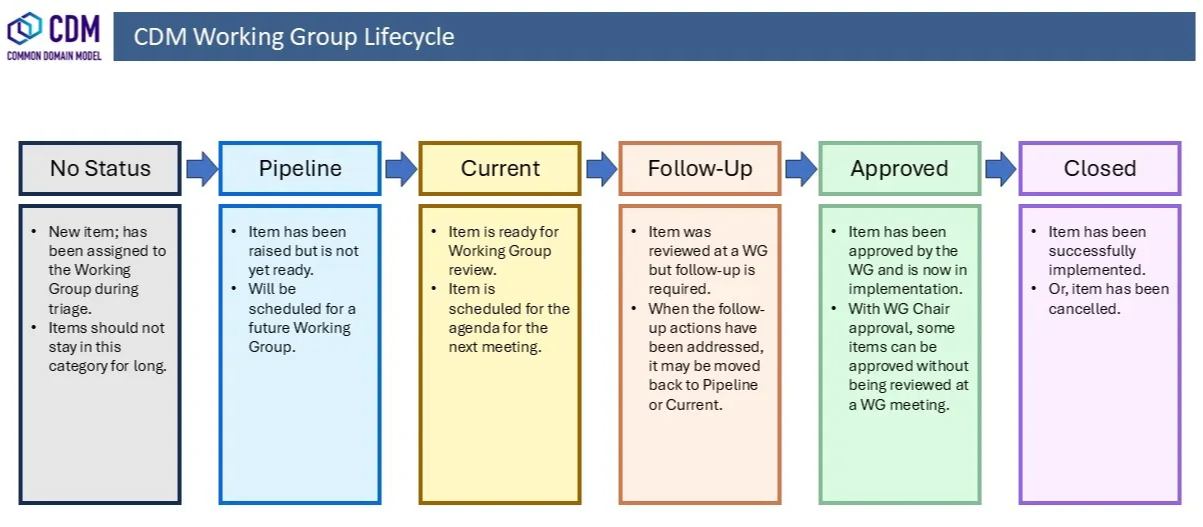
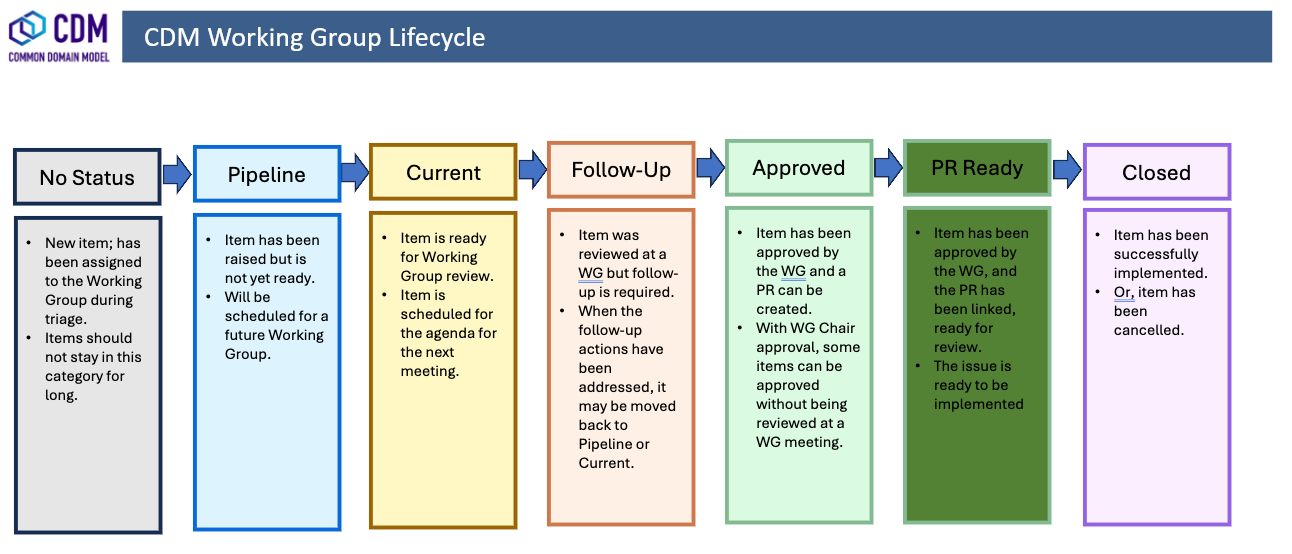
CRWG Flow Updates

diff --git a/docs/CDM-Contribution-Workflow.md b/docs/CDM-Contribution-Workflow.md
@@ -1,6 +1,6 @@
 
 # CDM Contribution Workflow
-![CDM Contribution Workflow](/img/cdm-contribution-workflow.png)
+![CDM Contribution Workflow](../website/static/img/cdm-contribution-workflow.png)
 
 # Issues
 
@@ -34,7 +34,7 @@ Once all the above activities are complete, remove the “Triage” label.
 
 All of the Working Groups follow a consistent process of agenda curation and review of Issues and PRs.  These items are tracked through a lifecycle on the Kanban board in GitHub through the following status changes:
 
-![CDM Contribution Workflow](/img/cdm-wg-lifecycle.png)
+![CDM Contribution Workflow](../website/static/img/cdm-wg-lifecycle.png)
 
 
 - Items may be moved from No Status to Pipeline and Current by the Release Management team, by the WG Chair, or (in most cases) by the Issue creator.
@@ -97,7 +97,7 @@ During the WG meeting
 ## Maintainer Review & Release
 ### L) — Maintainers Assigned:
 
-- One or more assigned maintainers are able to review the Release PR.
+- One or more assigned maintainers are able to review the Release PR. At this point the Issue is moved to the 'PR Ready' column, indicating the PR is ready to be reviewed
 
 ### M) — Maintainers Review:
 
